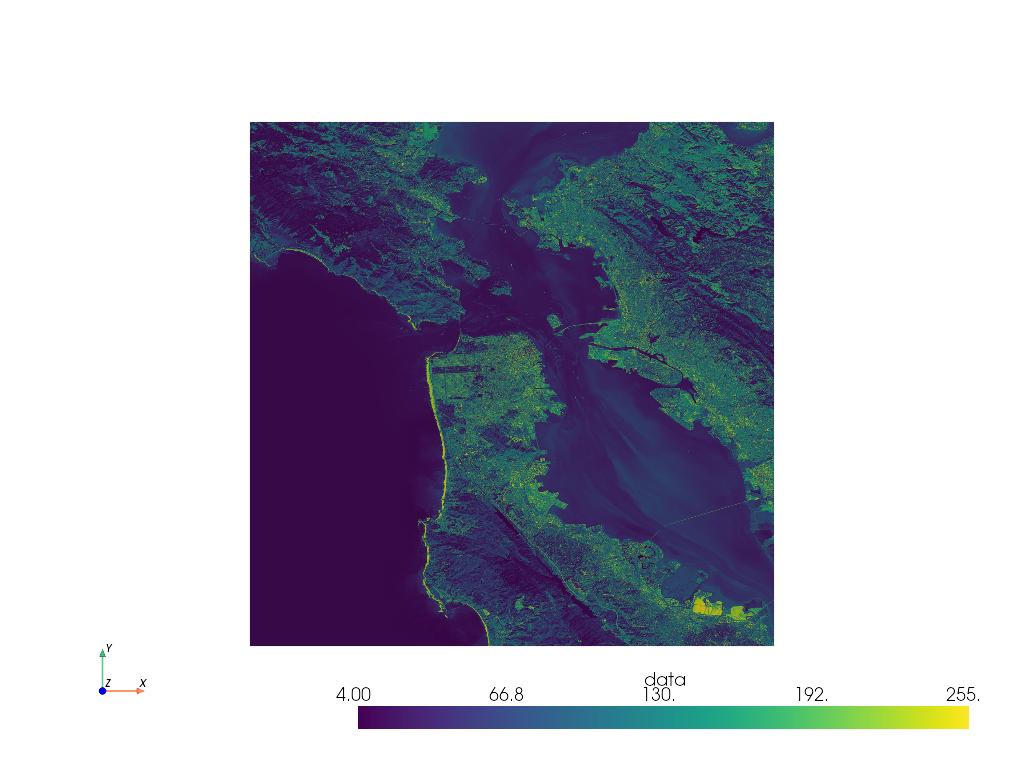
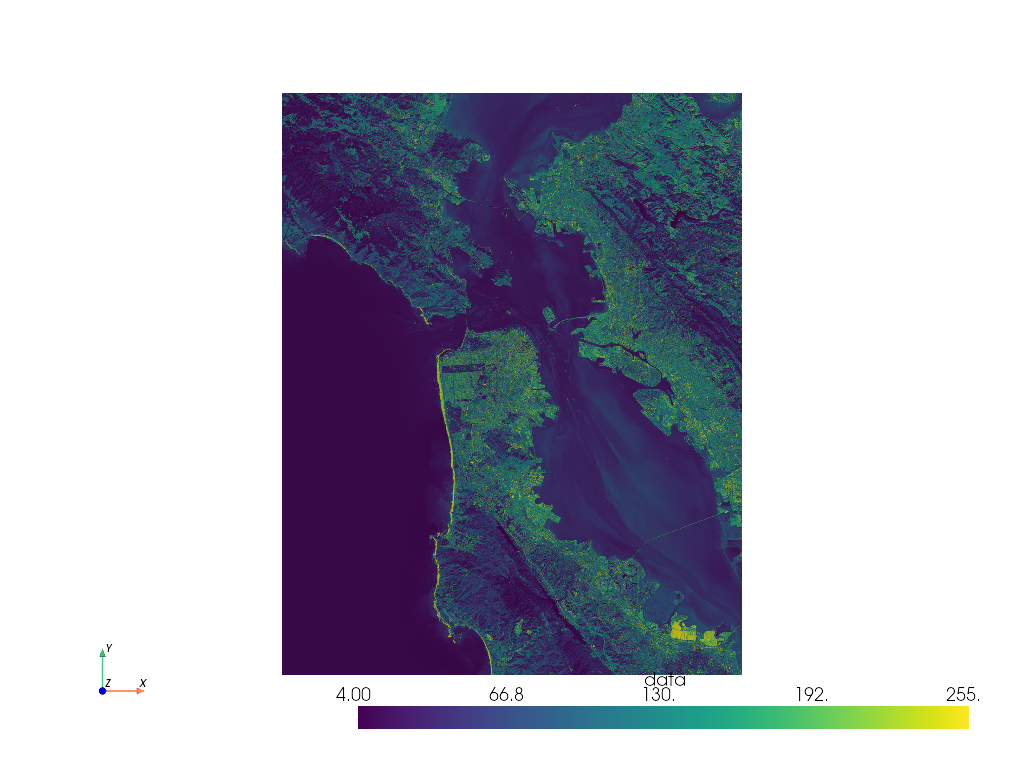
Update raster example

Changed region(s): [[0.2188, 0.0938, 0.7812, 0.9062]]

diff --git a/README.md b/README.md
@@ -85,6 +85,7 @@ import rioxarray
 import xarray as xr
 
 da = rioxarray.open_rasterio("TC_NG_SFBay_US_Geo_COG.tif")
+da = da.rio.reproject("EPSG:3857")
 
 # Grab a single band
 band = da[dict(band=0)]
@@ -95,4 +96,5 @@ mesh = band.pyvista_rectilinear.mesh
 mesh.plot(cpos='xy')
 ```
 
+<!-- notebook=0, off_screen=1, screenshot='imgs/raster.png' -->
 ![raster](https://raw.githubusercontent.com/pyvista/pyvista-xarray/main/imgs/raster.png)
